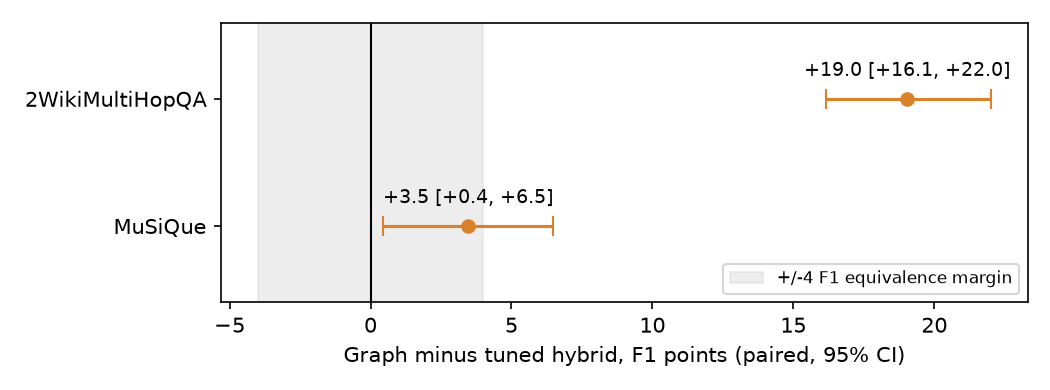
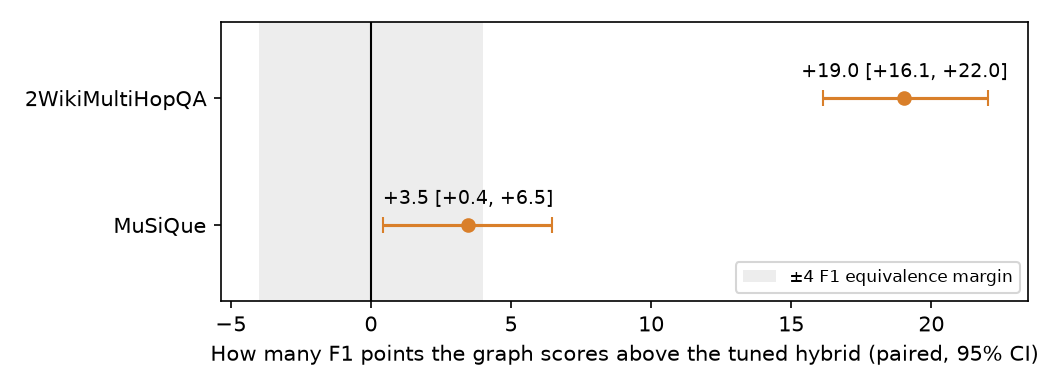
fix: chart labels (#347)
Regenerate fig2 and og.png with corrected x-axis label and real ± in legend; update alt text.

diff --git a/writing/graphrag-vs-tuned-hybrid/index.html b/writing/graphrag-vs-tuned-hybrid/index.html
@@ -15,7 +15,7 @@
 <meta property="og:image" content="https://eeshangpt.github.io/writing/graphrag-vs-tuned-hybrid/og.png">
 <meta property="og:image:width" content="1200">
 <meta property="og:image:height" content="630">
-<meta property="og:image:alt" content="Paired F1 difference, graph minus tuned hybrid, on two datasets">
+<meta property="og:image:alt" content="How many F1 points the graph scores above the tuned hybrid, paired, on two datasets">
 <meta name="twitter:card" content="summary_large_image">
 <meta name="twitter:title" content="I said GraphRAG beats vector RAG. Then I measured it. — Eeshan Gupta">
 <meta name="twitter:description" content="A small pre-registered experiment: when a graph retriever and a tuned hybrid retriever get the same context budget, how much of the graph advantage is left? +19.0 F1 points on 2WikiMultiHopQA, +3.5 on MuSiQue, with the limits stated.">
@@ -148,7 +148,7 @@
       <p>My bet going in was a clean sweep for the graph. It won clearly on 2Wiki. On MuSiQue the edge was 3.5 points, too thin for my own test to call either way.</p>
 
       <figure>
-        <img src="fig2-graph-minus-hybrid.png" width="1050" height="390" alt="Paired difference in F1 points, graph minus tuned hybrid, with 95% intervals and the plus or minus 4 point equivalence band. The 2Wiki interval sits far right of the band; the MuSiQue interval overlaps its edge.">
+        <img src="fig2-graph-minus-hybrid.png" width="1050" height="390" alt="How many F1 points the graph scores above the tuned hybrid (paired), with 95% intervals and the ±4 point equivalence band. The 2Wiki interval sits far right of the band; the MuSiQue interval overlaps its edge.">
         <figcaption>Figure 2: how many points the graph scores above the tuned hybrid, with its 95% interval and the ±4 equivalence band</figcaption>
       </figure>
 

diff --git a/writing/graphrag-vs-tuned-hybrid/index.md b/writing/graphrag-vs-tuned-hybrid/index.md
@@ -68,7 +68,7 @@ I had registered a rule for dropping the "graph is overrated" angle. It required
 
 My bet going in was a clean sweep for the graph. It won clearly on 2Wiki. On MuSiQue the edge was 3.5 points, too thin for my own test to call either way.
 
-![Paired difference in F1 points, graph minus tuned hybrid, with 95% intervals and the plus or minus 4 point equivalence band. The 2Wiki interval sits far right of the band; the MuSiQue interval overlaps its edge.](https://eeshangpt.github.io/writing/graphrag-vs-tuned-hybrid/fig2-graph-minus-hybrid.png)
+![How many F1 points the graph scores above the tuned hybrid (paired), with 95% intervals and the ±4 point equivalence band. The 2Wiki interval sits far right of the band; the MuSiQue interval overlaps its edge.](https://eeshangpt.github.io/writing/graphrag-vs-tuned-hybrid/fig2-graph-minus-hybrid.png)
 
 Figure 2: how many points the graph scores above the tuned hybrid, with its 95% interval and the ±4 equivalence band
 
